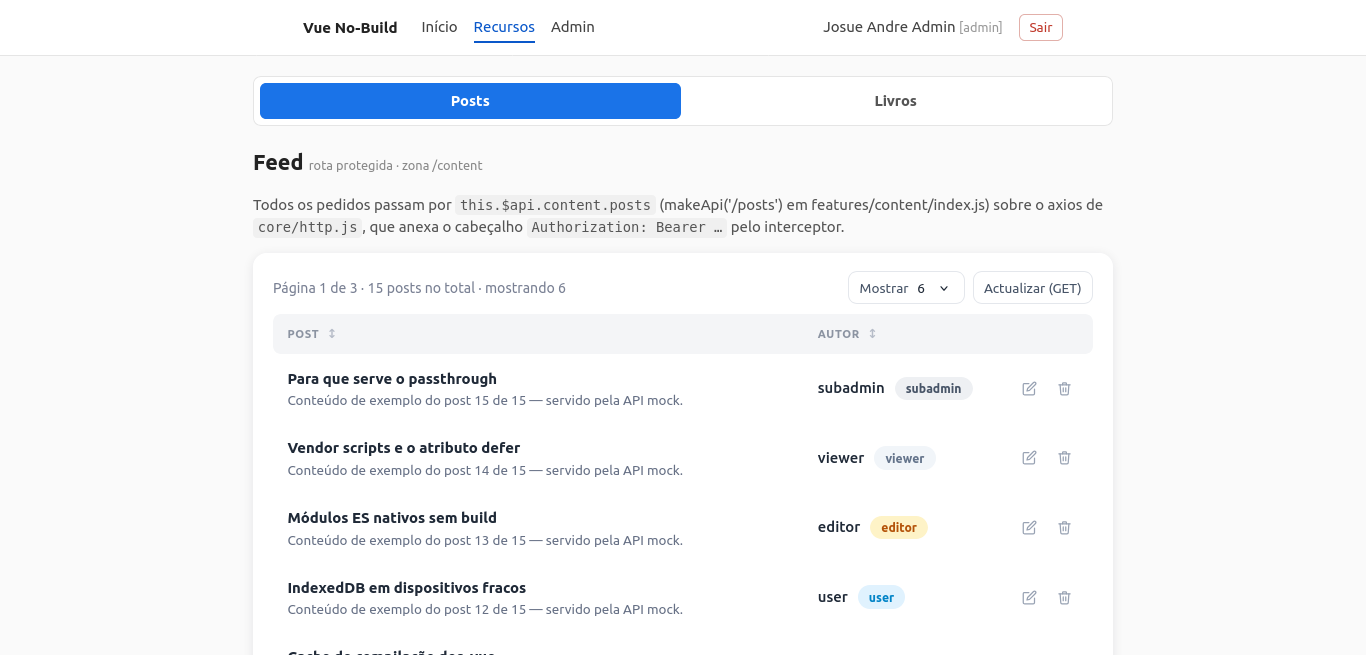
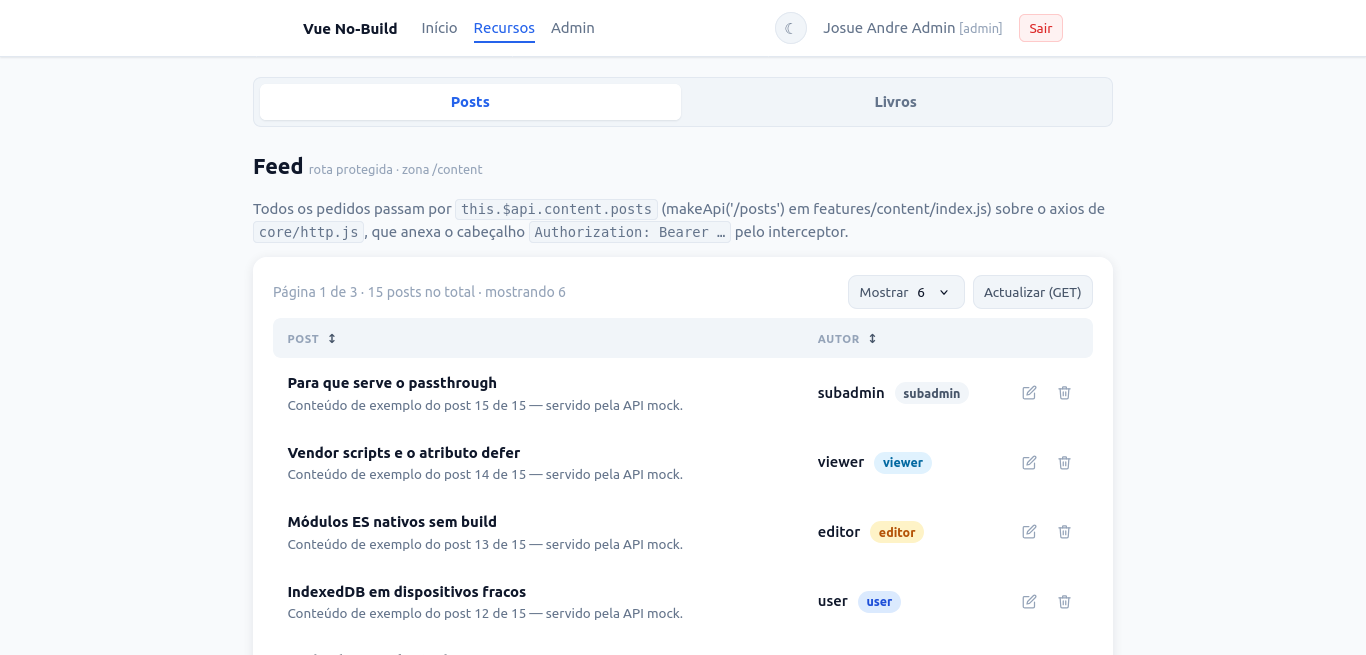
sync docs with code
sync doc with code

diff --git a/index.html b/index.html
@@ -7,9 +7,7 @@
     <!-- Raiz da app. Alterar se for servida num sub-caminho (ex.: "/meu-repo/"). -->
     <base href="/">
     <title></title>
-    <!-- Tema ANTES da 1.ª pintura: script clássico síncrono (módulos ES são
-         diferidos e não chegam aqui). A política vive em core/theme-boot.js —
-         espelho de core/theme.js; ver src/ui/theme.css. -->
+    <!-- Tema ANTES da 1.ª pintura: script clássico síncrono -->
     <script src="src/core/theme-boot.js"></script>
     <link rel="stylesheet" href="src/ui/theme.css">
     <style>
@@ -20,27 +18,20 @@
 
 <body>
     <div id="app"><p class="boot">A carregar…</p></div>
-
-    <!-- 1º de tudo: env.js decide QUE vue entra na fila e se o mock (Mirage) vem
-         para produção. Escreve as tags por document.write NA SUA POSIÇÃO — ver env.js. -->
+    
     <script src="env.js"></script>
-
-    <!-- Restantes vendors (iguais em dev e produção). `defer`: descarregam em
-         paralelo sem bloquear o HTML e executam pela ordem escrita, antes do
-         main.js (módulos também são diferidos, na mesma fila). -->
+    <!-- `defer`: descarregam em paralelo sem bloquear o HTML-->
     <script defer src="vendor/vue2-sfc-loader.js"></script>
     <script defer src="vendor/vuex.min.js"></script>
     <script defer src="vendor/vue-head.js"></script>
     <script defer src="vendor/vue-router.min.js"></script>
     <script defer src="vendor/axios.min.js"></script>
-    <!-- CASL: permissões (RBAC/ABAC). core/ability.js constrói a Ability a partir
-         das regras de GET /api/permissions; as vistas perguntam com this.$perm.can(...). -->
     <script defer src="vendor/casl.min.js"></script>
 
     <script type="module" src="src/main.js"></script>
 
     <script nomodule>
-        document.getElementById("app").innerHTML = "Your browser doesn't support JavaScript modules :("
+        document.getElementById("app").textContent = "Your browser doesn't support JavaScript modules :("
     </script>
 </body>
 

diff --git a/docs/08-seguranca.md b/docs/08-seguranca.md
@@ -1,5 +1,5 @@
 # 08 — Segurança (auditoria OWASP Top 10, rotas e sessão)
-> **Navegação:** [README português](../README.md) · [README inglês](../README.en.md) · [Anterior](07-producao.md) · [Seguinte](09-convencoes-de-rotas.md) · [English](08-seguranca.en.md)
+> **Navegação:** [README português](../README.md) · [README english](../README.en.md) · [Anterior](07-producao.md) · [Seguinte](09-convencoes-de-rotas.md) · [English](08-seguranca.en.md)
 
 Auditoria de segurança actual do template, feita como **hacker ético**: cada achado foi provado com um exploit executado contra a app. O ciclo de identidade/sessão é validado pela **matriz de intrusão T01–T13**, executada contra o mock com um harness Node que importa o código real. A auditoria confirma a doutrina central: **a UI esconde, a API decide**; a autoridade sobre a identidade e o ciclo de vida da sessão é o servidor (registry de sessões).
 
@@ -35,9 +35,19 @@ isso a auditoria separa três planos:
 
 **Bom (proado no EXP3/EXP5):**
 - Toda a escrita e leitura do mock passa pela cadeia única `registerCrud`
-  (`dev/mock/crud.js`): guard 401/403 → política CASL ao nível do TIPO → ao
-  nível da INSTÂNCIA (conditions) → 404 → 422. Um PUT/DELETE sobre post alheio
-  responde 403 mesmo com a UI contornada.
+  (`dev/mock/crud.js`). A ordem de erros é POR OPERAÇÃO — o que o código faz de
+  facto (ver `crud.js`):
+  - LISTA: guard 401/403 → 403 se o role não tem NENHUMA regra de leitura do
+    tipo → filtro ABAC por conditions nos registos → 200. Nunca há 404/422.
+  - DETALHE / PUT / DELETE: guard 401/403 → procura do registo (**404** se não
+    existe) → política CASL SOBRE a instância (**403** se existe mas a política
+    nega — owner rule) → validação quando aplicável (422).
+  - POST: guard 401/403 → permissão `create` ao nível do tipo (403) →
+    validação de forma (422) → 201.
+  Um PUT/DELETE sobre post alheio responde 403 mesmo com a UI contornada. Nota
+  de contrato: a 403 sobre um registo existente revela que o id EXISTE — é
+  deliberado (a UI nunca mostra acções que a política nega); ocultar existência
+  exigiria 404 uniforme, a custo de diagnósticos piores.
 - `PUT /profile` é **self-scoped por construção**: escreve sempre no user da
   SESSÃO e ignora qualquer `id` no body — não há caminho para editar outro
   utilizador.
@@ -92,9 +102,11 @@ isso a auditoria separa três planos:
 
 ### A03 — Injection
 
-- **XSS (prova EXP4)**: zero `v-html`/`innerHTML`/`eval` no código da app
-  (verificado por grep); Vue 2 escapa toda a interpolação `{{ }}`; os slots da
-  DataTable renderizam componentes, não HTML cru.
+- **XSS (prova EXP4)**: zero `v-html`/`innerHTML`/`eval` no código da app em
+  `src/` e nos templates Vue (verificado por grep); Vue 2 escapa toda a
+  interpolação `{{ }}`; os slots da DataTable renderizam componentes, não HTML
+  cru. O fallback estático do `index.html` para browsers sem módulos usa
+  `textContent` (nada de HTML construído em lado nenhum).
 - **Atenção estrutural (inerente ao no-build)**: o vue2-sfc-loader COMPILA os
   `.vue` no browser (usa `new Function`). Uma CSP sem `'unsafe-eval'` impede a
   app de arrancar — mitigação: os templates vêm SEMPRE de ficheiros same-origin
@@ -229,11 +241,17 @@ isso a auditoria separa três planos:
 4. Catch-all `*` sempre em último (`features/index.js` garante por código).
 
 **Mock/API (autoridade):**
-1. TODAS as rotas protegidas usam `guard()` (401) + `guardOpts {admin:true}`
-   quando é zona admin (403) — escritas uma vez, chamadas em todas.
+1. TODAS as rotas protegidas usam `guard()` (401) — escrito uma vez, chamado
+   em todas. `guardOpts {admin:true}` (403 por ROLE) só onde a zona é
+   reservada ao role admin: `/api/admin/stats` e `/api/rules`. A gestão de
+   utilizadores (`/api/admin/users`) NÃO é admin-only: é governada pela
+   política CASL do subject `User` (subadmin lê/edita contas comuns; criar,
+   eliminar, alterar roles e editar contas admin ficam fora — EXP7/T12).
 2. Política CASL aplicada por pedido: tipo (403 sem regra nenhuma) e instância
    (conditions filtram lista/negam registo).
-3. Ordem de erros canónica 401 → 403 → 404 → 422 (nunca 404 a esconder 403).
+3. Ordem de erros POR OPERAÇÃO (detalhe no A01): LISTA 401 → 403 → 200;
+   DETALHE/PUT/DELETE 401 → 404 → 403 → 422; POST 401 → 403 → 422. A 403 de
+   instância revela existência do registo — decisão deliberada de contrato.
 4. `registerCrud` é o único caminho de CRUD — a cadeia não se reescreve por
    recurso (uma só implementação a auditar).
 
@@ -274,7 +292,7 @@ isso a auditoria separa três planos:
 
 A matriz confirma que a identidade vem de `session.userId` no registry, que a validade é decidida pelo relógio do servidor, que a rotação e a revogação são server-side e que `401 invalid_token` não desencadeia refresh.
 
-## Checklist do backend REAL (o que o template não pode dar)
+## Checklist do backend REAL
 
 1. **Tokens**: assinatura verificada no servidor (HS256/RS256); `sub`/`roles`
    do payload só confiáveis APÓS verificação; TTL curto.

diff --git a/docs/08-seguranca.en.md b/docs/08-seguranca.en.md
@@ -36,8 +36,19 @@ The audit therefore separates three layers:
 
 **Positive findings (demonstrated by EXP3 and EXP5):**
 - All mock reads and writes use the single `registerCrud` chain
-  (`dev/mock/crud.js`): guard 401/403 → CASL policy at the type level → instance-level
-  conditions → 404 → 422. PUT and DELETE on another user’s post return 403 even when the UI is bypassed.
+  (`dev/mock/crud.js`). The error order is PER OPERATION — exactly what the
+  code does (see `crud.js`):
+  - LIST: guard 401/403 → 403 when the role has NO read rule for the type →
+    ABAC filter by conditions per record → 200. No 404/422 ever.
+  - DETAIL / PUT / DELETE: guard 401/403 → record lookup (**404** when
+    missing) → CASL policy ON THE INSTANCE (**403** when it exists but the
+    policy denies — owner rule) → validation when applicable (422).
+  - POST: guard 401/403 → `create` permission at type level (403) →
+    shape validation (422) → 201.
+  PUT and DELETE on another user’s post return 403 even when the UI is
+  bypassed. Contract note: a 403 on an existing record reveals that the id
+  EXISTS — deliberate (the UI never shows actions the policy denies); hiding
+  existence would require a uniform 404, at the cost of worse diagnostics.
 - `PUT /profile` is **self-scoped by design**: it always writes to the current
   session and ignores any `id` in the request body; there is no route for editing another user.
 - allowlists prevent mass assignment: `editable: ['title','body']` in the posts
@@ -89,9 +100,10 @@ The audit therefore separates three layers:
 
 ### A03 — Injection
 
-- **XSS (proof EXP4)**: zero `v-html`/`innerHTML`/`eval` in the application code
-  (verified by grep); Vue 2 escapes every interpolation `{{ }}`; the slots of the
-  DataTable renders components, not raw HTML.
+- **XSS (proof EXP4)**: zero `v-html`/`innerHTML`/`eval` in the application code under
+  `src/` and the Vue templates (verified by grep); Vue 2 escapes every interpolation `{{ }}`; the slots of the
+  DataTable renders components, not raw HTML. The static fallback in `index.html` for browsers
+  without modules uses `textContent` (no HTML is built anywhere).
 - **Structural concern (inherent to the no-build architecture):** vue2-sfc-loader compiles
   `.vue` files in the browser with `new Function`. A CSP without `'unsafe-eval'` prevents the
   application from starting. Templates must therefore come from same-origin deployment files,
@@ -221,11 +233,17 @@ The audit therefore separates three layers:
 4. The catch-all `*` is always last (`features/index.js` ensures by code).
 
 **Mock/API (authority):**
-1. All protected routes use `guard()` (401) + `guardOpts {admin:true}`
-   when the route is administrative (403); the checks are defined once and reused.
+1. All protected routes use `guard()` (401) — defined once, called everywhere.
+   `guardOpts {admin:true}` (403 by ROLE) only where the area is reserved to
+   the admin role: `/api/admin/stats` and `/api/rules`. User management
+   (`/api/admin/users`) is NOT admin-only: it is governed by the CASL policy
+   of subject `User` (subadmin reads/edits common accounts; create, delete,
+   changing roles and editing admin accounts are out — EXP7/T12).
 2. CASL policy is applied on every request: type-level checks return 403 without a rule,
    and instance conditions filter lists or deny individual records.
-3. The canonical error order is 401 → 403 → 404 → 422 (never hide a 403 behind a 404).
+3. Error order PER OPERATION (details in A01): LIST 401 → 403 → 200;
+   DETAIL/PUT/DELETE 401 → 404 → 403 → 422; POST 401 → 403 → 422. An instance
+   403 reveals the record exists — a deliberate contract decision.
 4. `registerCrud` is the single CRUD path; the policy chain is not rewritten per resource.
 
 ## Security of session (current state and limitations)
@@ -265,7 +283,7 @@ The audit therefore separates three layers:
 
 The matrix confirms that identity comes from `session.userId` in the registry, expiry is decided by the server clock, rotation and revocation are server-side, and `401 invalid_token` never triggers refresh.
 
-## Checklist of the real backend (that the template cannot give)
+## Checklist of the real backend
 
 1. **Tokens:** verify the signature on the server (HS256/RS256); `sub`/`roles`
    trust payload roles only after verification; TTL short.

diff --git a/docs/06-mock-api.md b/docs/06-mock-api.md
@@ -1,5 +1,5 @@
 # 06 — Mock API (MirageJS)
-> **Navegação:** [README português](../README.md) · [README inglês](../README.en.md) · [Anterior](05-login-e-permissoes.md) · [Seguinte](07-producao.md) · [English](06-mock-api.en.md)
+> **Navegação:** [README português](../README.md) · [README english](../README.en.md) · [Anterior](05-login-e-permissoes.md) · [Seguinte](07-producao.md) · [English](06-mock-api.en.md)
 
 Com `mock: true` no `env.js` a app arranca um servidor falso que **interpreta os XHR do axios antes de chegarem à rede** — `this.$api` / `this.$http` desenvolvem-se e testam-se de ponta a ponta sem backend, e o resto da app não distingue. (`vendor-dev/mirage.min.js` é injectado pelo `env.js`; a fábrica vive em `dev/mock/index.js` — o único módulo que conhece o MirageJS, tal como `core/loader.js` é o único que conhece o sfc-loader.)
 
@@ -57,7 +57,7 @@ dev/mock/
 | POST | `/api/__demo/revoke` | token · só `debug` | demo do fluxo 401→logout: revoga a FAMÍLIA da sessão corrente NO REGISTRY → 401 `invalid_token` → refresh falha → logout; 404 fora de `debug` |
 | GET | `/api/profile` | token | perfil público da própria sessão (mesma forma do `/me`) — a rota do Perfil (`/profile`) |
 | PUT | `/api/profile` | token | self-service da própria conta: muda `name` / `username` / `password` (vazio = manter) → 200 com o perfil actualizado; 422 nome vazio, username 3-24 `[a-zA-Z0-9_.-]` + único, password < 4. Self-scoped: escreve SEMPRE no utilizador da sessão (ids no body são ignorados); roles nunca (auto-escalada) |
-| GET | `/api/permissions` | token | regras CASL do utilizador da sessão, lidas da mock DB a cada pedido (seed `seeds/permissions.js`): admin → `manage Post` + `manage Book` + `manage User`; user → `read/create Post` + `read Book` + `update/delete` com conditions `{authorId}`; subadmin → `read User` + `update User` + `read Post` + `read Book` |
+| GET | `/api/permissions` | token | regras CASL do utilizador da sessão, lidas da mock DB a cada pedido (seed `seeds/permissions.js` — a fonte completa da política, 5 roles): admin → `manage Post` + `manage Book` + `manage User`; user → `read/create Post` + `read Book` + `update/delete` com conditions `{authorId}`; editor → `read/create/update Post` + `read Book`; viewer → `read Post` + `read Book`; subadmin → `read User` + `update User` + `read Post` + `read Book` |
 | GET | `/api/permissions/:id` | token + `admin` | **`:id` = ID de UTILIZADOR**: perfil público + regras efectivas já materializadas com os dados dele (o que `GET /api/permissions` lhe serviria); 404 desconhecido, **403** sem admin |
 | GET | `/api/rules` | token + `admin` | política **crua** (placeholders intactos): `{data: [{id, role, action, subject, conditions, inverted, position}]}` ordenada por `position` — a ordem de AVALIAÇÃO CASL, a última regra que casa sobre o mesmo (action, subject) vence |
 | POST | `/api/rules` | token + `admin` | cria regra `{role, action, subject, conditions?, inverted?}` → 201 (nasce em ÚLTIMO lugar, position = max+1 — "a mais recente vence"); 422 texto vazio/>40, conditions inválidas (não-objecto/valores não primitivos), `inverted` não-booleano ou regra duplicada |

diff --git a/docs/06-mock-api.en.md b/docs/06-mock-api.en.md
@@ -57,7 +57,7 @@ dev/mock/
 | POST | `/api/__demo/revoke` | token · only `debug` | demo of the flow 401→logout: revokes the family of the current session in the REGISTRY → 401 `invalid_token` → refresh failure → logout; 404 otherwise `debug` |
 | GET | `/api/profile` | token | public profile of the current session (same shape of the `/me`) — the route of the profile (`/profile`) |
 | PUT | `/api/profile` | token | self-service of the user’s own account: changes `name` / `username` / `password` (empty = keep) → 200 with the profile updated; 422 name empty, username 3-24 `[a-zA-Z0-9_.-]` + single, password < 4. Self-scoped: writes always in the user of the session (ids in the body are ignored); roles never (auto-escalation) |
-| GET | `/api/permissions` | token | rules CASL of the user of the session, read of the mock DB each request (seed `seeds/permissions.js`): admin → `manage Post` + `manage Book` + `manage User`; user → `read/create Post` + `read Book` + `update/delete` with conditions `{authorId}`; subadmin → `read User` + `update User` + `read Post` + `read Book` |
+| GET | `/api/permissions` | token | CASL rules of the session user, read from the mock DB on every request (seed `seeds/permissions.js` — the complete source of the policy, 5 roles): admin → `manage Post` + `manage Book` + `manage User`; user → `read/create Post` + `read Book` + `update/delete` with conditions `{authorId}`; editor → `read/create/update Post` + `read Book`; viewer → `read Post` + `read Book`; subadmin → `read User` + `update User` + `read Post` + `read Book` |
 | GET | `/api/permissions/:id` | token + `admin` | **`:id` = id of user**: public profile + effective rules already materialized with the data of it (that `GET /api/permissions` would provide); 404 unknown, **403** without admin |
 | GET | `/api/rules` | token + `admin` | policy **raw** (placeholders intact): `{data: [{id, role, action, subject, conditions, inverted, position}]}` sorted by `position` — the order of evaluation CASL, the last rule that matches about the same (action, subject) wins |
 | POST | `/api/rules` | token + `admin` | creates rule `{role, action, subject, conditions?, inverted?}` → 201 (is created in last place, position = max+1 — "the more recent wins"); 422 text empty/>40, conditions invalid (not-object/values not primitives), `inverted` not-boolean or rule duplicate |

diff --git a/docs/09-convencoes-de-rotas.en.md b/docs/09-convencoes-de-rotas.en.md
@@ -22,9 +22,14 @@ configuration.
 - **C2 — Collisions and order:** paths never collide, and no rule depends on registration order
   except the catch-all `*`, which is always last.
 - **C3 — Inherited META:** `requiresAuth`, `roles`, and `perm` on the parent cover children
-  through `to.matched`; never repeat META on every child. For `roles` the inheritance is
-  restrictive: every level that declares `roles` must be satisfied (AND across levels;
-  a level’s array is an OR of alternatives) — the child tightens, never loosens.
+  through `to.matched`; never repeat META on every child. The THREE metas merge with
+  different rules (`app/guards.js`, `requirementsOf()`):
+  - `requiresAuth`: ONE level declaring it is enough (ANY) — any parent or child;
+  - `roles`: restrictive — every level that declares `roles` must be satisfied (AND across
+    levels; a level’s array is an OR of alternatives) — the child tightens, never loosens;
+  - `perm`: REPLACEMENT — the DEEPEST `perm` is the only one evaluated and replaces the
+    parent’s (it does not accumulate). Requiring both the parent’s and the child’s permission
+    would need the guard to collect every `perm` in the chain.
 - **C4 — URL stability:** current paths are explicit and stable, with one declaration point
   for each area.
 - **C5 — Addition cost:** a new page is one child in an existing area; a new domain is one new
@@ -45,6 +50,10 @@ configuration.
 1. **One primary area per feature:** one top-level path, one layout in `ui/layouts/`, and one
    `index.js` declaring everything. Areas with several sections provide navigation in their layout
    (AdminLayout uses a sidebar; ContentLayout uses tabs).
+   EXPLICIT EXCEPTION: a feature may declare MORE THAN ONE complete area (distinct top-level
+   paths, each with its own layout and META) — the `auth` feature declares `/login`
+   (LayoutAuth, `guest`) and `/profile` (LayoutDefault, `requiresAuth`); a single
+   `features/auth/` folder remains the single declaration point (C1).
 2. **Put META on the area parent.** A child declares META only for an exception inside the area
    (for example, `/admin/users` uses `perm` while sibling routes require `roles`). The guard
    walks `to.matched`, so the parent covers its children.

diff --git a/docs/09-convencoes-de-rotas.md b/docs/09-convencoes-de-rotas.md
@@ -22,10 +22,15 @@ as features cresçam sem espalhar a configuração.
 - **C2 — Colisões e ordem**: caminhos nunca colidem; nenhuma regra depende de
   ordem de registo (excepto o catch-all `*`, sempre último).
 - **C3 — Meta herdada**: `requiresAuth`/`roles`/`perm` no PAI cobrem os filhos
-  por `to.matched` — nunca repetir meta em cada filho. Em `roles` a herdação é
-  restritiva: cada nível que declarar `roles` tem de ficar satisfeito (AND entre
-  níveis; o array de um nível é OR de alternativas) — o filho aperta, nunca
-  afrouxa.
+  por `to.matched` — nunca repetir meta em cada filho. As TRÊS meta fundem-se
+  com regras diferentes (`app/guards.js`, `requirementsOf()`):
+  - `requiresAuth`: basta UM nível o declarar (ANY) — pai ou filho qualquer;
+  - `roles`: restritiva — cada nível que declarar `roles` tem de ficar
+    satisfeito (AND entre níveis; o array de um nível é OR de alternativas) —
+    o filho aperta, nunca afrouxa;
+  - `perm`: SUBSTITUIÇÃO — o `perm` mais PROFUNDO é o único avaliado e
+    substitui o do pai (não se acumula). Para exigir a permissão do pai E a do
+    filho, o guard teria de acumular todas as `perm` da cadeia.
 - **C4 — Estabilidade de URL**: os caminhos actuais são explícitos e estáveis,
   com um único ponto de declaração por zona.
 - **C5 — Custo de acrescentar**: uma página nova = 1 filho na zona existente;
@@ -46,6 +51,11 @@ as features cresçam sem espalhar a configuração.
 1. **Uma zona principal por feature**: 1 path de topo, 1 layout de
    `ui/layouts/` e 1 `index.js` que declara tudo. Zonas com várias secções
    ganham navegação no layout (AdminLayout: sidebar; ContentLayout: abas).
+   EXCEPÇÃO explícita: uma feature pode declarar MAIS QUE UMA zona completa
+   (paths de topo distintos, com layouts e meta próprios) — a feature `auth`
+   declara `/login` (LayoutAuth, `guest`) e `/profile` (LayoutDefault,
+   `requiresAuth`); mantém-se uma única pasta `features/auth/` como ponto de
+   declaração (C1).
 2. **Meta no PAI da zona**; filho declara meta só para EXCEÇÕES dentro da zona
    (ex.: `/admin/users` abre por `perm` enquanto os irmãos exigem `roles`).
    O guard percorre `to.matched` — o pai cobre os filhos.

diff --git a/docs/00-arranque.md b/docs/00-arranque.md
@@ -26,8 +26,8 @@
 | Conta | Password | Role | Vê |
 | --- | --- | --- | --- |
 | `admin` | `admin123` | `admin` | tudo, incl. `/admin/stats` e `/admin/users` |
-| `user` | `user123` | `user` | `/content/posts` (owner rules: edita/apaga só os próprios posts), sem link para o admin |
-| `editor` | `editor123` | `editor` | `/content/posts` — edita posts de TODOS os autores (update sem conditions), não apaga |
+| `user` | `user123` | `user` | `/content/posts` (owner rules: edita/apaga só os próprios posts) e `/content/books` (leitura), sem link para o admin |
+| `editor` | `editor123` | `editor` | `/content/posts` — edita posts de TODOS os autores (update sem conditions), não apaga — e `/content/books` (leitura). A diferença para `user` está na ESCRITA de posts, não na leitura |
 | `viewer` | `viewer123` | `viewer` | `/content/posts` e `/content/books` — só leitura: nenhum botão, nenhum formulário |
 | `subadmin` | `subadmin123` | `subadmin` | `/admin/users` — gere contas COMUNS (read+update `User`; `roles` reservado ao admin), sem `/admin/stats` nem `/admin/permissions` |
 
@@ -45,5 +45,5 @@ O painel `/admin/users` cria contas novas (ex.: `carol / carol123`): entram logo
 | [`05-login-e-permissoes.md`](05-login-e-permissoes.md) | Sessão, guard, política CASL como dado |
 | [`06-mock-api.md`](06-mock-api.md) | MirageJS, seeds, endpoints completos |
 | [`07-producao.md`](07-producao.md) | Deploy: `env.js`, o que apagar, cache |
-| [`08-seguranca.md`](08-seguranca.md) | Auditoria OWASP Top 10, matriz de intrusão T01–T12 |
+| [`08-seguranca.md`](08-seguranca.md) | Auditoria OWASP Top 10, matriz de intrusão T01–T13 |
 | [`09-convencoes-de-rotas.md`](09-convencoes-de-rotas.md) | Convenção de zonas/rotas/meta e o estudo por trás |

diff --git a/docs/00-arranque.en.md b/docs/00-arranque.en.md
@@ -34,8 +34,8 @@
 | Account | password | Role | Access |
 | --- | --- | --- | --- |
 | `admin` | `admin123` | `admin` | Everything, including `/admin/stats` and `/admin/users` |
-| `user` | `user123` | `user` | `/content/posts`; owner rules allow editing and deleting only owned posts |
-| `editor` | `editor123` | `editor` | `/content/posts`; can edit every author’s posts but cannot delete |
+| `user` | `user123` | `user` | `/content/posts`; owner rules allow editing and deleting only owned posts; also `/content/books` (read-only) |
+| `editor` | `editor123` | `editor` | `/content/posts`; can edit every author’s posts but cannot delete; also `/content/books` (read-only). The difference from `user` is WRITE access to posts, not reading |
 | `viewer` | `viewer123` | `viewer` | `/content/posts` and `/content/books`; read-only |
 | `subadmin` | `subadmin123` | `subadmin` | `/admin/users`; can read/update ordinary `User` records, but cannot change `roles`; not `/admin/stats` or `/admin/permissions` |
 
@@ -55,5 +55,5 @@ immediately with their role’s permissions; no additional code is required (see
 | [`05-login-e-permissoes.en.md`](05-login-e-permissoes.en.md) | Sessions, guards, and CASL policy data |
 | [`06-mock-api.en.md`](06-mock-api.en.md) | MirageJS, seeds, and endpoints |
 | [`07-producao.en.md`](07-producao.en.md) | Deployment, `env.js`, removed files, and cache |
-| [`08-seguranca.en.md`](08-seguranca.en.md) | OWASP Top 10 and T01–T12 intrusion matrix |
+| [`08-seguranca.en.md`](08-seguranca.en.md) | OWASP Top 10 and T01–T13 intrusion matrix |
 | [`09-convencoes-de-rotas.en.md`](09-convencoes-de-rotas.en.md) | Route-area, route, and META conventions |

diff --git a/docs/05-login-e-permissoes.md b/docs/05-login-e-permissoes.md
@@ -24,6 +24,7 @@ view ── DELETE /posts/1 (alheio) ──▶ 403 forbidden ──▶ mensagem 
 - No `401` o interceptor chama `POST /refresh` **uma vez** (401 paralelos partilham o mesmo refresh em curso — single-flight) e **repete o pedido**: a vista nem nota. Um 401 no próprio `/login` nunca despoleta o ciclo.
 - **O refresh é um token SEPARADO**: o login devolve o PAR access/refresh — o access (120s) vai em todos os pedidos; o refresh (7 dias) só existe para o `POST /refresh` (o interceptor manda-o lá; usá-lo noutra rota dá 401). Os tipos não se misturam.
 - **A rotação tem efeito real**: cada refresh revoga o par antigo e emite o novo — reutilizar um refresh JÁ RODADO mata a família inteira (detecção de roubo clássica de refresh tokens: um ladrão e o dono legítimo disputam, o segundo leva 401 → re-login).
+- **Integridade memória ↔ localStorage (detecção imediata de adulteração)**: o token vive numa variável reactiva EM MEMÓRIA, lida do localStorage só no arranque — editar o token no DevTools com a app a correr não altera os pedidos até ao próximo F5. Para expulsar essa sessão cedo, `auth.storageIntact()` compara token, refresh e perfil da memória com o localStorage e é fail-closed: qualquer divergência → `clearSession()`. É verificada em DOIS pontos: o passo 0 do guard (cada navegação) e um watcher de 1.5s em `app/router.js` (apanha mesmo sem navegar) — redirect para `/login?redirect=<rota>` sem esperar pelo 401. O servidor continua a ser a autoridade: o token adulterado nunca seria aceite (hash do token completo no registry, T13/T01/T09).
 
 ## Guard: rotas declaram, um guard avalia
 

diff --git a/docs/05-login-e-permissoes.en.md b/docs/05-login-e-permissoes.en.md
@@ -24,6 +24,7 @@ view ── DELETE /posts/1 (someone else’s) ──▶ 403 forbidden ──▶
 - On `401`, the interceptor calls `POST /refresh` **once** (parallel 401 responses share the same in-flight refresh) and **retries the request**. The view does not need to know about the refresh cycle; a 401 from `/login` never triggers it.
 - **The refresh token is separate:** login returns an access/refresh pair. The access token (120s) is sent with every request; the refresh token (7 days) is used only by `POST /refresh`. Using it on another route returns 401. The two token types must never be mixed.
 - **Rotation has a real security effect:** each refresh revokes the old pair and issues a new one. Reusing an already rotated refresh token revokes the entire family, detecting the classic refresh-token theft race.
+- **Memory ↔ localStorage integrity (immediate tamper detection):** the token lives in a reactive IN-MEMORY variable, read from localStorage only at boot — editing the token in DevTools while the app runs does not change outgoing requests until the next F5. To expel that session early, `auth.storageIntact()` compares the in-memory token, refresh token, and profile against localStorage and is fail-closed: any divergence → `clearSession()`. It is checked at TWO points: step 0 of the guard (every navigation) and a 1.5s watcher in `app/router.js` (catches it even without navigating) — redirect to `/login?redirect=<route>` without waiting for the 401. The server remains the authority: a tampered token would never be accepted (full-token hash in the registry, T13/T01/T09).
 
 ## Guard: routes declare, the guard evaluates
 

diff --git a/docs/03-nova-feature.md b/docs/03-nova-feature.md
@@ -65,10 +65,12 @@ const features = [site, auth, content, admin];
 
 Não há "caminho didáctico" vs. "caminho rápido" no código — posts e books seguem o MESMO: `registerCrud` no mock, `makeApi` no cliente, `ui/DataTable.vue` na vista. Para UM recurso novo basta (o exemplo completo é `features/content/` — o livro entrou na mesma zona):
 
-1. **Mock** — em vez de copiar a cadeia de política em N ficheiros (TODOS os recursos com seed passam pela fábrica: posts, books e users), regista as 5 rotas com a fábrica `registerCrud` (`dev/mock/crud.js`), que aplica a MESMA cadeia (guard → nível tipo → filtro/negação por instância → 403 → 404 → 422 → paginação):
+1. **Mock** — em vez de copiar a cadeia de política em N ficheiros (TODOS os recursos com seed passam pela fábrica: posts, books e users), regista as 5 rotas com a fábrica `registerCrud` (`dev/mock/crud.js`), que aplica a MESMA cadeia (guard → 404 da procura → política por tipo/instância → 403 → validação 422 → paginação; ordem por operação, ver docs/08):
 
    ```js
-   // dev/mock/routes/books.js — ~20 linhas no total
+   // dev/mock/routes/books.js — EXEMPLO SIMPLIFICADO inspirado no ficheiro real
+   // (o real inclui 'pages' em allowedSorts, numericSorts: ['pages'] e a coerção
+   // Number(body.pages) — ver dev/mock/routes/books.js)
    import { registerCrud } from '../crud.js';
    export function register(server, ctx) {
        registerCrud(server, ctx, {
